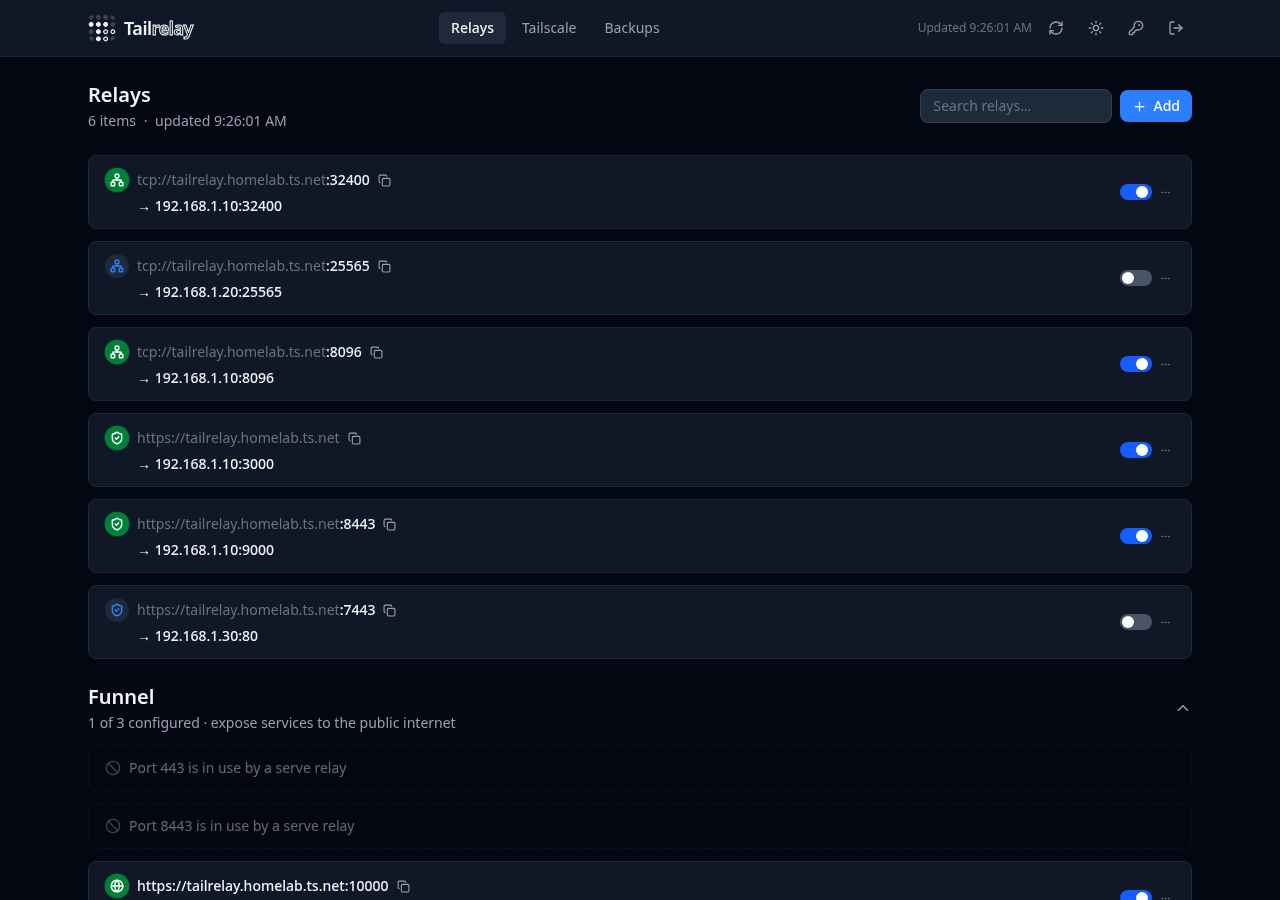
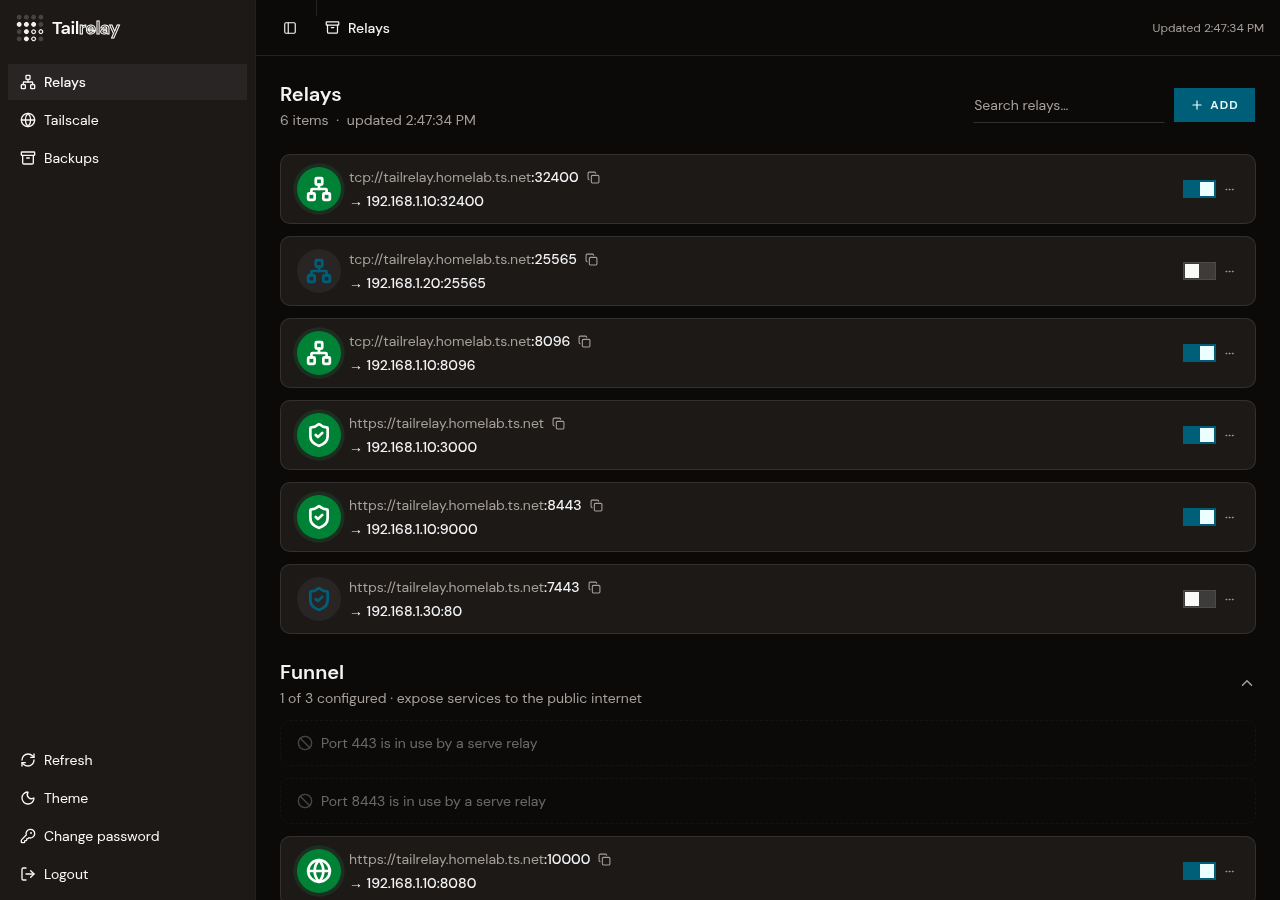
docs: refresh screenshots for shadcn UI and adapt capture script
All 17 screenshots regenerate against the sidebar layout in both
themes. The capture script now resolves playwright from webui/
frontend, switches themes via the stored system/light/dark preference
(store resolves on load, picking up the brand icon swap), and clicks
sidebar items by label since data-slot is overridden by the bits-ui
tooltip wrapper. CHANGELOG gains an [Unreleased] Web UI entry.

diff --git a/CHANGELOG.md b/CHANGELOG.md
@@ -7,6 +7,9 @@ and this project adheres to [Semantic Versioning](https://semver.org/spec/v2.0.0
 
 ## [Unreleased]
 
+### Changed
+- **Web UI** (#151) — the UI has been rebuilt on [shadcn-svelte](https://shadcn-svelte.com) using the `b6nWT9rPN4` create-preset (sera style, stone base, cyan accent, DM Sans + Montserrat, medium radius). All custom components were replaced with their standard shadcn implementations: toasts → Sonner, tooltip/portal → Tooltip, toggle → Switch, add/password modals → Dialog, delete confirmation → AlertDialog, overflow menu → DropdownMenu, exit-node picker → Select, and the top navbar → a collapsible Sidebar layout with a standard system/light/dark theme preference. The log panel adopts the terminal component look. Previously saved theme preferences (binary values) fall back to `light`/`dark`; `system` behavior now follows the OS theme
+
 ## [0.11.4] - 2026-10-09
 
 ### Changed
